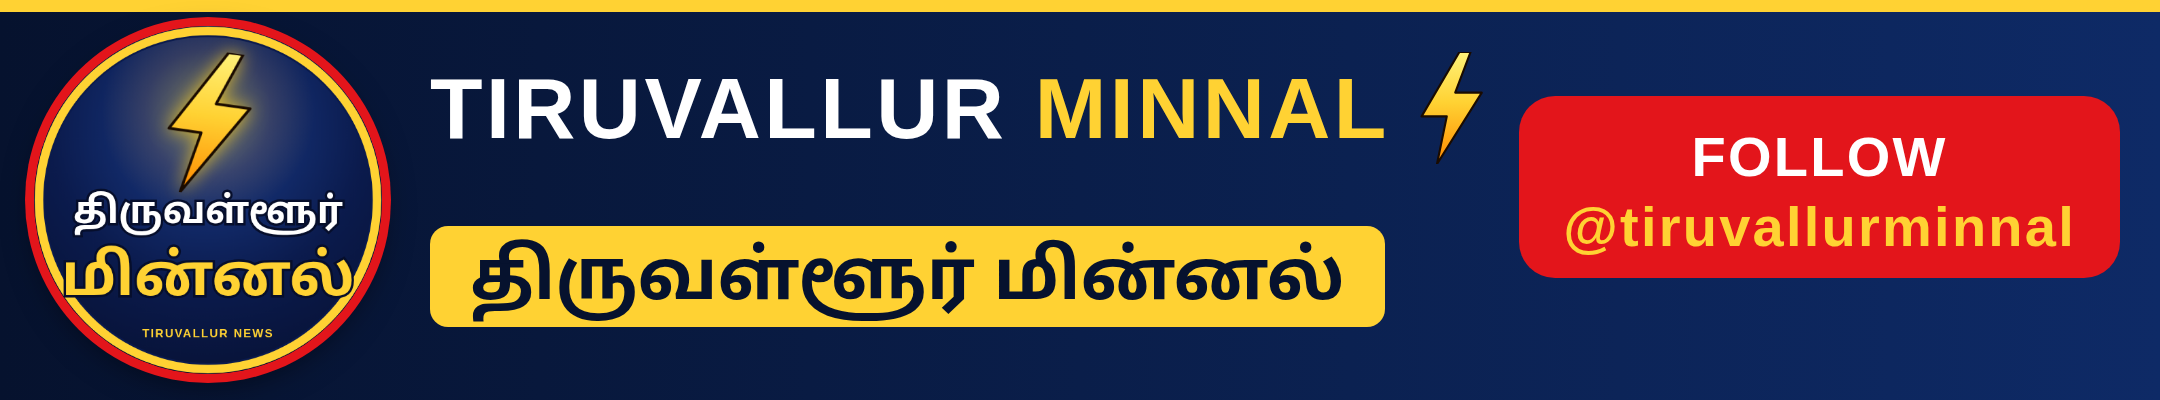
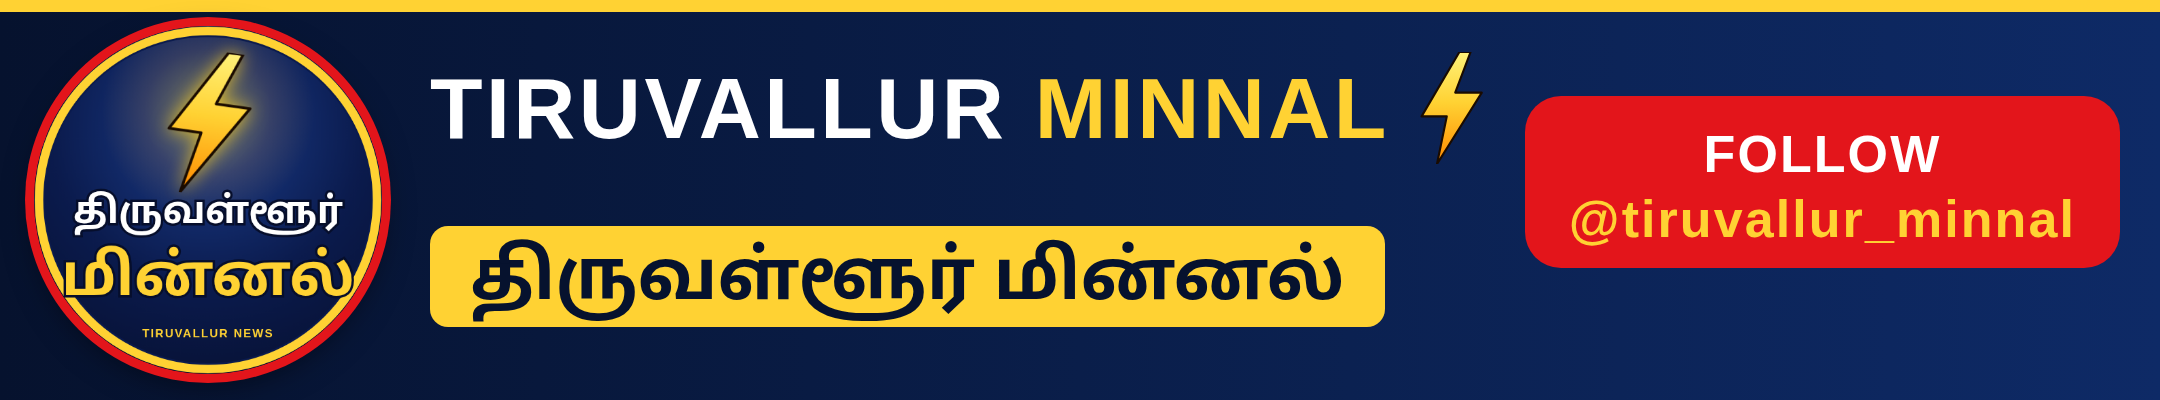
Tiruvallur Minnal: full-news page setup (not live)
Owner 20 Nov: "this district is for full news like others", "dont live as of now ... only finish setups".
- make_page.PAGE["tiruvallur"]: every job like Chennai, own Meta token, gold_city chennai, live False
- AREAS["tiruvallur"] (9 taluks since 2018) + roads ("சென்னையை அடுத்த ..." taken out before the other-district check) + CITY_LOOK
- make_timer never starts a page with live False; sync_pages switches all its jobs off
- districts.json: news texts, handle tiruvallur_minnal, cover_sub; make_brand cover_sub; new footer
- PAGE_SETUP.md full-news runbook + status; DIFFERENCES.md entry; tests

Changed region(s): [[0.6824, 0.51, 0.9926, 0.72], [0.7755, 0.33, 0.8995, 0.45], [0.6824, 0.27, 0.7134, 0.33]]

diff --git a/tools/make_page.py b/tools/make_page.py
@@ -37,7 +37,14 @@ PAGE = {"chennai": {"fb_page_id": "1450975134763291", "repo": "nithiyananthamQA/
         "salem": {"fb_page_id": "1415768578293777", "ig_user_id": "17841453291685225", "handle": "salem_minnal",      # 19 Nov, salem-bot token
                   "repo": "nithiyananthamQA/salemminnal-autopost", "folder": "salemminnal",
                   "bot": "salemminnal-bot", "own_token": True, "ref": "news360-tn/salem360-autopost",
-                  "jobs": POWERCUT_JOBS}}
+                  "jobs": POWERCUT_JOBS},
+        # owner 20 Nov: "this district is for full news like others" - every job (like Chennai), its OWN Meta app token + Apps Script and
+        # its OWN free AI accounts (new e-mail; secrets from the TIRUVALLUR_* lines of .env). The reference has no Tiruvallur page (no `ref`).
+        # gold_city: the gold-rate sites have no Tiruvallur page (3 of 4 answer 404, 20 Nov) - the Chennai rate is read.
+        "tiruvallur": {"fb_page_id": "", "ig_user_id": "", "handle": "tiruvallur_minnal",
+                       "repo": "nithiyananthamQA/tiruvallurminnal-autopost", "folder": "tiruvallurminnal",
+                       "bot": "tiruvallurminnal-bot", "own_token": True, "gold_city": "chennai",
+                       "live": False}}      # owner 20 Nov: "dont live as of now ... only finish setups" - no job runs (timer, sync) until True
 
 # owner 18 Nov ("chennai is the most populated city ... add even more small areas", suburbs: yes): the copy had only "சென்னை" as a
 # place word, so the page could not tell a Chennai area story from a state story datelined Chennai, and every pin said "சென்னை".
@@ -84,6 +91,34 @@ AREAS = {"chennai": {
     # state politics datelined Chennai is not Chennai news (21:00 list 17 Nov: TVK / Mekedatu / Thiruparankundram statements)
     "politics": ["தவெக", "திமுக", "அதிமுக", "பாஜக", "காங்கிரஸ்", "நாம் தமிழர்", "பாமக", "விசிக", "மதிமுக", "தேமுதிக", "சட்டப்பேரவை",
                  "தலைமைச் செயலக", "ஆளுநர்"],
+},
+    # owner 20 Nov (full-news page): Tiruvallur district = 9 taluks since the 2018 Chennai expansion - Avadi, Poonamallee, Tiruvallur,
+    # Uthukottai, Ponneri, Gummidipoondi, Tiruttani, Pallipattu, R.K. Pet. Avadi / Poonamallee / Thiruverkadu / Minjur / Redhills are in
+    # Chennai's list too (the suburbs people call Chennai) - owner 20 Nov: such news goes on both pages. Names that are also towns
+    # elsewhere (திருவாலங்காடு, பூண்டி alone, அத்திப்பட்டு, வல்லூர், ஆரம்பாக்கம்) are left out.
+    "tiruvallur": {
+        "ta": ["திருவள்ளூர்", "திருவள்ளுர்", "ஆவடி", "பட்டாபிராம்", "திருநின்றவூர்", "திருமுல்லைவாயல்", "திருமுல்லைவாயில்", "கோவில்பதாகை",
+               "மிட்டனமல்லி", "நெமிலிச்சேரி", "பூந்தமல்லி", "பூவிருந்தவல்லி", "திருவேற்காடு", "திருமழிசை", "ஐயப்பன்தாங்கல்", "நசரத்பேட்டை",
+               "வேலப்பன்சாவடி", "குமணன்சாவடி", "வெள்ளவேடு", "மணவாளநகர்", "மணவாள நகர்", "காக்களூர்", "புட்லூர்", "திருப்பாச்சூர்",
+               "செவ்வாப்பேட்டை", "வேப்பம்பட்டு", "கடம்பத்தூர்", "பெரியபாளையம்", "ஊத்துக்கோட்டை", "தாமரைப்பாக்கம்", "பொன்னேரி", "மீஞ்சூர்",
+               "பழவேற்காடு", "கும்மிடிப்பூண்டி", "கும்மிடிபூண்டி", "கவரைப்பேட்டை", "எளாவூர்", "சோழவரம்", "காட்டுப்பள்ளி", "செங்குன்றம்",
+               "திருத்தணி", "பள்ளிப்பட்டு", "ஆர்.கே.பேட்டை", "ஆர்.கே. பேட்டை", "ஆர்கே பேட்டை", "பொதட்டூர்பேட்டை", "கனகம்மாசத்திரம்"],
+        # district services / landmarks: a story about them is Tiruvallur news even without a town name
+        "services": ["ஆவடி மாநகராட்சி", "ஆவடி காவல் ஆணையரக", "திருத்தணி முருகன்", "வீரராகவ பெருமாள்", "பூண்டி ஏரி", "புழல் ஏரி", "சோழவரம் ஏரி",
+                     "பழவேற்காடு ஏரி", "கும்மிடிப்பூண்டி சிப்காட்", "காமராஜர் துறைமுக", "காட்டுப்பள்ளி துறைமுக", "கனரக வாகன தொழிற்சாலை",
+                     "பெரியபாளையம் பவானி அம்மன்"],
+        "en": ["Tiruvallur", "Thiruvallur", "Avadi", "Pattabiram", "Thiruninravur", "Tirunindravur", "Thirumullaivoyal", "Poonamallee",
+               "Thiruverkadu", "Tiruverkadu", "Thirumazhisai", "Iyyappanthangal", "Nazarethpet", "Velappanchavadi", "Kumananchavadi",
+               "Manavalanagar", "Kakkalur", "Putlur", "Sevvapet", "Veppampattu", "Kadambathur", "Periyapalayam", "Uthukottai", "Ponneri",
+               "Minjur", "Pulicat", "Pazhaverkadu", "Gummidipoondi", "Kavaraipettai", "Elavur", "Sholavaram", "Kattupalli", "Red Hills",
+               "Redhills", "Tiruttani", "Thiruttani", "Pallipattu", "R.K. Pet", "RK Pet", "Pothatturpet", "Nemilichery", "Thamaraipakkam"],
+        # a power-cut notice filed under Chennai / a state-wide list passes with one of these in its title (the big towns of the district)
+        "section": ["திருவள்ளூர்", "ஆவடி", "பூந்தமல்லி", "பொன்னேரி", "கும்மிடிப்பூண்டி", "திருத்தணி", "திருவேற்காடு", "மீஞ்சூர்"],
+        # "சென்னையை அடுத்த ஆவடியில்" (Avadi, near Chennai) is how the papers write Tiruvallur news: these words are taken out before the
+        # other-district / state check (CITY_ROADS), else every such story counted as Chennai news and never made a round's top
+        "roads": ["சென்னையை அடுத்துள்ள", "சென்னையை அடுத்த", "சென்னை அருகே", "சென்னை அருகில்", "சென்னை புறநகர்", "சென்னை-திருவள்ளூர்",
+                  "சென்னை - திருவள்ளூர்", "சென்னை-திருப்பதி", "சென்னை - திருப்பதி", "சென்னை-பெங்களூரு", "சென்னை - பெங்களூரு",
+                  "சென்னை-கொல்கத்தா", "சென்னை - கொல்கத்தா", "சென்னை வெளிவட்ட சாலை", "சென்னை புறவழிச்சாலை", "near Chennai"],
 }}
 
 SKIP = re.compile(r"^(districts/|apps_script/Code\.districts\.gs$|\.github/workflows/district_powercut\.yml$|tests/test_district|"
@@ -153,6 +188,22 @@ class PageValues(unittest.TestCase):
         self.assertTrue(F.same_cut_areas(a_h, a_s, "2026-11-20", "சென்னை: நாளை மின்தடை", "நாளை (நவம்பர் 21) அடையாறு, வேளச்சேரி பகுதிகள்.", "2026-11-20"))
         self.assertFalse(F.same_cut_areas(a_h, a_s, "2026-11-20", "சென்னையில் நாளை மின்தடை", "நாளை (நவம்பர் 21) தாம்பரம், குரோம்பேட்டை பகுதிகளில் மின்தடை.", "2026-11-20"))
 
+    def test_tiruvallur_area_news(self):      # owner 20 Nov: "சென்னையை அடுத்த ஆவடியில்" is Tiruvallur news; Chennai city news is not
+        if "{key}" != "tiruvallur":
+            return
+        own = ["ஆவடியில் லாரி மோதி இளைஞர் உயிரிழப்பு", "சென்னையை அடுத்த பூந்தமல்லியில் கடையில் தீ விபத்து",
+               "சென்னை அருகே திருவேற்காட்டில் வீட்டில் திருட்டு", "திருத்தணி முருகன் கோயிலில் கிருத்திகை விழா",
+               "பொன்னேரியில் நாளை மின்தடை", "கும்மிடிப்பூண்டி சிப்காட்டில் தொழிலாளி உயிரிழப்பு",
+               "பழவேற்காடு ஏரியில் படகு கவிழ்ந்து மீனவர் மாயம்", "Avadi: lorry hits bike, youth dies"]
+        for t in own:
+            self.assertTrue(allnews.has_place(t), t)
+            self.assertFalse(allnews.outside_district(t), t)
+            self.assertFalse(allnews.statewide(t), t)
+        for t in ["சென்னையில் நாளை மிக கனமழை: ஆரஞ்ச் அலர்ட்", "வடபழனியில் பிரியாணி கடையில் தீ விபத்து"]:
+            self.assertFalse(allnews.has_place(t), t)
+        self.assertTrue(allnews.statewide("சென்னையில் நாளை மிக கனமழை: ஆரஞ்ச் அலர்ட்"))
+        self.assertTrue(allnews.other_district("தாம்பரத்தில் பேருந்து விபத்து: செங்கல்பட்டு போலீஸ் விசாரணை"))
+
     def test_no_kovai_name_left_in_code(self):
         out = subprocess.run(["grep", "-rIlE", "Kovai Minnal|கோவை மின்னல்|kovai_minnal|KovaiMinnal|kovaiminnal", str(ROOT), "--include=*.py",
                               "--include=*.yml", "--include=*.json", "--exclude-dir=fb_posted", "--exclude-dir=.git", "--exclude-dir=tests"],
@@ -170,7 +221,14 @@ CITY_LOOK = {"chennai": (
     " and heavy traffic, T. Nagar and Purasaiwalkam shopping streets, Ripon Building (Greater Chennai Corporation), Chennai Central and Egmore\n"
     " stations, Metro Rail and MRTS lines, Marina beach and the Cooum / Adyar rivers, IT corridor (OMR) offices, the port and Royapuram,\n"
     " TNEB substations and transformers on concrete poles; two-wheelers, autorickshaws, MTC and private buses; men in shirts with veshti or\n"
-    " trousers, women in sarees or salwar; Tamil Nadu police in khaki; corporation workers; TNEB linemen.\n")}
+    " trousers, women in sarees or salwar; Tamil Nadu police in khaki; corporation workers; TNEB linemen.\n"),
+    "tiruvallur": (
+    "CITY LOOK (Tiruvallur district): Tiruvallur town with the Veeraraghava Perumal temple and its tank, the Tiruttani Murugan hill temple and its\n"
+    " steps, Avadi and Pattabiram with suburban EMU trains and the Heavy Vehicles Factory walls, Poonamallee and Thiruverkadu on the busy\n"
+    " Chennai-Bengaluru highway, Ponneri, Minjur and Pulicat lake with fishing boats, Gummidipoondi SIPCOT factories, Kattupalli port cranes and\n"
+    " power-plant chimneys, Poondi and Puzhal reservoirs, paddy fields and village roads with palm trees, TNEB substations and transformers on\n"
+    " concrete poles; two-wheelers, share autos, MTC and TNSTC buses; men in shirts with veshti or trousers, women in sarees or salwar; Tamil Nadu\n"
+    " police in khaki; panchayat and municipality workers; TNEB linemen.\n")}
 
 
 def ref_lists(key):
@@ -258,7 +316,7 @@ def allnews_values(src, d, PL):
         "SITE_QUERIES": [d["ta"]],
         "COIMBATORE_WORDS": list(dict.fromkeys(words + (AREAS.get(d["key"], {}).get("ta") or []) + (AREAS.get(d["key"], {}).get("services") or [])
                                                + (AREAS.get(d["key"], {}).get("en") or []))),
-        "TOWNS": [], "TOWN_ROADS": [], "CITY_ROADS": [], "NOT_PLACE": [],
+        "TOWNS": [], "TOWN_ROADS": [], "CITY_ROADS": list(AREAS.get(d["key"], {}).get("roads") or []), "NOT_PLACE": [],
         "CITY_AREAS": [w for w in (AREAS.get(d["key"], {}).get("ta") or []) if w != d["ta"]],
         "OTHER_PLACES": [x["ta"] for x in others.values()] + ["கோவை", "கோயம்புத்தூர்"],
         "OTHER_EN": sorted({w for x in others.values() for w in (x["en"].lower(), x["dinamalar"]) if w.isalpha()} | {"coimbatore", "kovai"}),
@@ -371,6 +429,12 @@ def main(key, out):
         t = p.read_text(encoding="utf-8")
         p.write_text('import unittest\nraise unittest.SkipTest("no gold rate on a power-cut-only page (tools/make_page.py POWERCUT_JOBS)")\n' + t,
                      encoding="utf-8")
+    if d.get("gold_city"):      # 20 Nov: the gold-rate sites have no page for this town - its rate is gold_city's (Tiruvallur = Chennai)
+        p = out / "goldrate" / "gold_daily.py"
+        t, k = re.subn(rf'"city": "{key}"', f'"city": "{d["gold_city"]}"', p.read_text(encoding="utf-8"))
+        if k != 1:
+            raise SystemExit(f"goldrate/gold_daily.py: the page's \"city\": \"{key}\" not found ({k})")
+        p.write_text(t, encoding="utf-8")
     # no district engine in a copy: keeper does not start it
     for f, pat in (("tools/keeper.py", r'^    "district_powercut\.yml": .*\n'),
                    ("tests/test_keeper.py", r'"district_powercut\.yml": 34,\s*|^        self\.assertEqual\(first\["district_powercut\.yml"\], "05:35"\)\n')):

diff --git a/tests/test_sync_pages.py b/tests/test_sync_pages.py
@@ -60,3 +60,42 @@ class PowerCutPage19Nov(unittest.TestCase):
         src = make_page.allnews_values((ROOT / "research_free" / "allnews.py").read_text(encoding="utf-8"), d, PL)
         self.assertNotIn("SALEM_WORDS", src)      # his name for the list is ours (COIMBATORE_WORDS)
         self.assertIn("ஆத்தூர்", src)
+
+
+class NotLivePage20Nov(unittest.TestCase):
+    """owner 20 Nov: Tiruvallur = full news like Chennai, set up but "dont live as of now" - no job of it ever starts"""
+    def test_timer_never_starts_a_page_that_is_not_live(self):
+        import tempfile, make_timer, make_page
+        from unittest import mock
+        with tempfile.TemporaryDirectory() as home:
+            (Path(home) / "tiruvallurminnal-autopost" / ".github" / "workflows").mkdir(parents=True)
+            with mock.patch.object(Path, "home", return_value=Path(home)):
+                repos = make_timer.build()["repos"]
+        self.assertNotIn("nithiyananthamQA/tiruvallurminnal-autopost", repos)
+        self.assertIs(make_page.PAGE["tiruvallur"]["live"], False)
+
+    def test_sync_switches_every_job_off_until_live(self):
+        import json, make_page
+        from unittest import mock
+        calls = []
+
+        def run(cmd, cwd, check=True):
+            calls.append(cmd)
+            out = json.dumps([{"path": ".github/workflows/pick.yml", "state": "active"},
+                              {"path": ".github/workflows/post.yml", "state": "disabled_manually"}]) if "list" in cmd else ""
+            return mock.Mock(returncode=0, stdout=out, stderr="")
+        with mock.patch.object(sync_pages, "run", run):
+            sync_pages.only_jobs("tiruvallur")
+        self.assertIn(["gh", "workflow", "disable", "pick.yml", "-R", "nithiyananthamQA/tiruvallurminnal-autopost"], calls)
+        self.assertEqual(sum("disable" in c for c in calls), 1)
+
+    def test_full_news_page_values(self):
+        import json, make_page
+        sys.path.insert(0, str(ROOT / "districts"))
+        d, PL = make_page.page_values("tiruvallur")
+        self.assertIsNone(d.get("jobs"))      # every job, like Chennai
+        cfg = make_page.config_values(json.loads((ROOT / "poster" / "config.json").read_text(encoding="utf-8")), d, PL)
+        self.assertEqual(cfg["instagram"]["shared_token_page"], "")      # its own Meta app token
+        src = make_page.allnews_values((ROOT / "research_free" / "allnews.py").read_text(encoding="utf-8"), d, PL)
+        self.assertIn("சென்னையை அடுத்த", src)      # CITY_ROADS: "near Chennai" is taken out before the other-district check
+        self.assertEqual(make_page.ref_lists("tiruvallur"), {})

diff --git a/tools/make_brand.py b/tools/make_brand.py
@@ -387,7 +387,8 @@ def district_images(pg, key, d):
                               handle=d["handle"], ta_font=DIST_TA), 2160, 400, home / "footer.png")
     out = home / "upload"      # only for uploading by hand to Instagram / Facebook (git-ignored)
     shot(pg, simple_logo_html(1080, line1=d["ta"]), 1080, 1080, out / "profile_1080.png")
-    shot(pg, simple_cover_html(ta=d["ta"], sub=f"{d['en'].upper()} POWER CUT ALERTS · FAST · EVERY DAY"), 1640, 624, out / "fb_cover_1640x624.png",
+    sub = d.get("cover_sub") or f"{d['en'].upper()} POWER CUT ALERTS · FAST · EVERY DAY"      # cover_sub: a full-news page (Tiruvallur, 20 Nov)
+    shot(pg, simple_cover_html(ta=d["ta"], sub=sub), 1640, 624, out / "fb_cover_1640x624.png",
          transparent=False)
 
 

diff --git a/tools/sync_pages.py b/tools/sync_pages.py
@@ -31,8 +31,8 @@ def run(cmd, cwd, check=True):
 def only_jobs(key):
     """19 Nov: a power-cut-only page (make_page.PAGE[key]["jobs"]) keeps every other workflow OFF on GitHub - a workflow file that is
     new in Kovai arrives switched on, so this runs after every push (needs GH_TOKEN, as /tmp/push.sh sets)."""
-    keep = make_page.PAGE[key].get("jobs")
-    if not keep:
+    keep = [] if make_page.PAGE[key].get("live") is False else make_page.PAGE[key].get("jobs")      # 20 Nov: not live yet = every job off
+    if keep is None:
         return
     repo = make_page.PAGE[key]["repo"]
     r = run(["gh", "workflow", "list", "--all", "-R", repo, "--json", "path,state"], ROOT, check=False)

diff --git a/tools/make_timer.py b/tools/make_timer.py
@@ -32,7 +32,7 @@ def build():
     repos = {KOVAI: jobs(ROOT)}
     for key, pg in make_page.PAGE.items():
         d = Path.home() / pg["repo"].split("/")[1]
-        if (d / ".github").is_dir():
+        if (d / ".github").is_dir() and pg.get("live") is not False:      # 20 Nov: a page set up but not live yet is never started
             repos[pg["repo"]] = jobs(d, pg.get("jobs"))
     return {"note": "made by tools/make_timer.py - do not edit by hand", "repos": repos}
 

diff --git a/districts/PAGE_SETUP.md b/districts/PAGE_SETUP.md
@@ -97,6 +97,20 @@ bot salem-bot, Sheet "Salem Minnal Log", repo nithiyananthamQA/salemminnal-autop
 - Kovai-place tests fail on a page with the reference's lists → REF_PLACE_TESTS skip them (make_page).
 - Worker TIMER_URL/TIMER_KEY are not in .env → the page's posting chain sleeps on GitHub (11 min) when 2+ cuts wait. Fix later.
 
+## FULL-NEWS PAGE (Tiruvallur, 20 Nov 2026; owner: "this district is for full news like others") - the one-day runbook above, plus:
+
+- texts in districts/districts.json are the NEWS ones (ig_name `<City> Minnal | <City> News`, ig_bio / fb_intro like Chennai's, `cover_sub`
+  `<CITY> NEWS · FAST · EVERY DAY` for the Facebook cover) → `python3 tools/make_brand.py --districts <key>` → owner OKs the texts first
+  (Instagram allows 2 name changes per 14 days).
+- PAGE[<key>]: NO `jobs` (every job, like Chennai), `own_token` True, no `ref` unless the reference runs the district, `gold_city` when
+  the gold-rate sites have no page for the town (Tiruvallur reads Chennai), `live: False` until the owner says go (make_timer never
+  starts it, sync_pages switches every job off).
+- AREAS[<key>]: ta / services / en / section, and `roads` = words taken out before the other-district check ("சென்னையை அடுத்த").
+  CITY_LOOK[<key>]. Test headlines in make_page.PAGE_TEST.
+- Own FREE AI accounts on a NEW e-mail (owner 20 Nov): Gemini, Groq, NVIDIA, Cloudflare (Workers AI token), Cloudinary (cloud + unsigned
+  preset + API key/secret) → `.env` `<CITY>_*` lines. Claude (paid) = Kovai's key, only when every free AI fails (llm.py default).
+- `bash /tmp/<key>_setup.sh` stops when a `<CITY>_*` line is empty; it never copies Kovai's free AI keys.
+
 ## Rules (learned the hard way)
 
 - At most **1 new Instagram account and 1 new Facebook page per day**. Edit one Instagram account at a time, slowly.
@@ -175,3 +189,4 @@ One minnal-bot token for ALL pages (owner 14 Nov: "same account for Chennai and 
 | Kovai Minnal | 61596710992967 ✅ | kovai_minnal ✅ (17841410844667843), name pending (owner, phone) | ✅ | ✅ shared token (FB page 1475639385631396) | after push |
 | Madurai | dropped | maduraiminnal suspended | – | – | – |
 | Salem Minnal (power cuts only, 19 Nov) | 1415768578293777 ✅ | salem_minnal ✅ (17841453291685225) | ✅ salem-bot, app Salem Pages | ✅ own token + own Apps Script | after salem_live.sh |
+| Tiruvallur Minnal (FULL news, 20 Nov) | ✅ made (profile 61596457243906); portfolio add = owner ticks terms | tiruvallur_minnal - owner, phone | app Tiruvallur Pages + tiruvallur-bot - next | own AI keys (new e-mail) - owner | NOT live (owner: later) |

diff --git a/docs/DIFFERENCES.md b/docs/DIFFERENCES.md
@@ -194,3 +194,14 @@ Llama - the reference writes with Gemini then Groq, Claude only when both fail).
   channel"; config instagram.shared_token_page ""), so a problem on one page never reaches another.
 - Place lists, power-cut searches, papers and the picture prompt's city look = the REFERENCE's own Salem values
   (news360-tn/salem360-autopost, tools/ref_lists.py -> districts/ref_lists/salem.json) - same as his Salem page, not a difference.
+
+## Tiruvallur Minnal = a full-news page (owner 20 Nov: "this district is for full news like others"; "dont live as of now")
+
+- Every job, like Chennai (no `jobs` list); its OWN Meta app token + Apps Script, and its OWN free AI accounts on a new e-mail (owner
+  20 Nov) - Kovai's free AI keys are never copied; Claude (paid) = Kovai's key, only when every free AI fails ("when free fails then
+  only paid"). The reference has no Tiruvallur page, so its lists are ours (tools/make_page.py AREAS / CITY_LOOK, like Chennai).
+- Ours: AREAS `roads` -> CITY_ROADS = "சென்னையை அடுத்த / சென்னை அருகே ..." taken out before the other-district / state check (the papers
+  write Tiruvallur news as "near Chennai"; without it such a story counted as Chennai news and never made a round's top).
+- Gold rate: Chennai's rate pages (`gold_city`) - the four rate sites have no Tiruvallur page (3 of 4 answer 404, 20 Nov).
+- Avadi / Poonamallee / Thiruverkadu / Minjur / Redhills news may post on Chennai AND Tiruvallur (owner 20 Nov: both pages).
+- `live: False` in make_page.PAGE until the owner says go: the timer never starts it, every push keeps all its jobs off.
